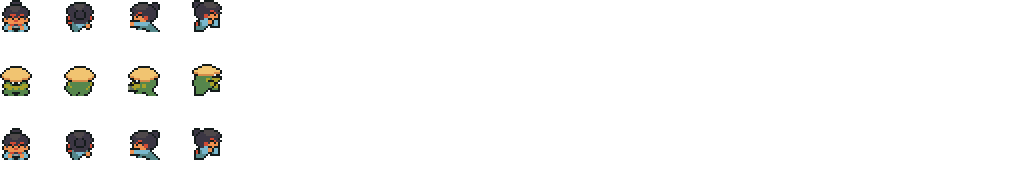
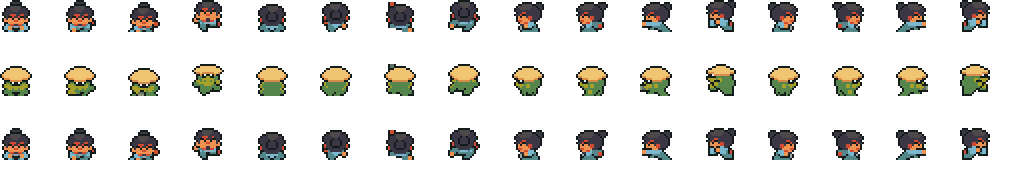
fix(mvp2): character frames - directions are columns, walk cycles are rows
User reported characters spinning while walking. Root cause: Ninja
Adventure source sheets lay out COLUMNS = directions and ROWS = animation
frames, but the extractor walked a diagonal (row += frame), so each
'direction's 4 frames were actually 4 different directions' standing
frames - playing them made the character rotate in place.

- buildCharacterSheetNormalized: sx = direction column, sy = frame row;
  regenerate characters.png (16 valid frames per character: 4 dir blocks
  x 4 walk frames)
- MapScene picks the direction block from server-facing (down 0-3 / left
  4-7 / right 8-11 / up 12-15) and loops the 4 walk frames while moving
- Verified: sampled texture columns 0,1,2,3,0... (single direction block,
  no cross-direction rotation); e2e passes

diff --git a/src/components/pixi/map/MapScene.tsx b/src/components/pixi/map/MapScene.tsx
@@ -17,6 +17,7 @@ export type MapSceneHandle = {
 export type MapAgentView = {
   x: number;
   y: number;
+  facing?: { x: number; y: number };
   isAlive: boolean;
   name: string;
   action: { type: string; phase: string; progress: number } | null;
@@ -43,14 +44,23 @@ type MapSceneProps = {
 const TILE = 32;
 
 // characters.png is the 2x-scaled 16-col atlas with 64px cells: each
-// character occupies one 64px row (linche 0, shilei 1, suhe 2); the 4 walk
-// frames of the down direction live in columns 0-3, each 32x32 in the
-// top-left corner of the 64px cell. (Columns 4-15 are empty placeholders.)
+// character occupies one 64px row (linche 0, shilei 1, suhe 2). Every
+// character has 16 frames laid out as 4 direction blocks x 4 walk frames:
+// cols 0-3 down, 4-7 left, 8-11 right, 12-15 up (dirOrder in meta).
 const AGENT_ROW: Record<string, number> = { agent_a: 0, agent_b: 1, agent_c: 2 };
 const CELL = 64;
 const FRAME_SIZE = 32;
 const WALK_FRAMES = 4;
+const DIR_BLOCK: Record<string, number> = { down: 0, left: 1, right: 2, up: 3 };
 const AGENT_COLOR: Record<string, number> = { agent_a: 0x4aa3ff, agent_b: 0x46d96a, agent_c: 0xff9a4a };
+
+function dirIndexOf(facing?: { x: number; y: number }): number {
+  if (!facing) return 0;
+  if (facing.y > 0) return DIR_BLOCK.down;
+  if (facing.x < 0) return DIR_BLOCK.left;
+  if (facing.x > 0) return DIR_BLOCK.right;
+  return DIR_BLOCK.up;
+}
 
 // Props atlas layout: cellSize x cellSize cells (props.png). Index from meta.
 function propTexture(assets: MapAssets, tileIndex: number, w: number, h: number, sub?: { x: number; y: number; w: number; h: number }): PIXI.Texture {
@@ -75,6 +85,7 @@ export const MapScene = PixiComponent<MapSceneProps, PIXI.Container & { __handle
       walkFrame: Map<string, number>;
       walkTextures: Map<string, Array<PIXI.Texture>>;
       idleTextures: Map<string, PIXI.Texture>;
+      frameTextures: Map<string, Array<PIXI.Texture>>;
       frameAcc: number;
       targetPos: Map<string, { x: number; y: number }>;
       ticker: PIXI.Ticker | null;
@@ -82,7 +93,7 @@ export const MapScene = PixiComponent<MapSceneProps, PIXI.Container & { __handle
       itemMarks: Map<string, PIXI.Graphics>;
       fireMarks: Map<string, PIXI.Graphics>;
       charTex: PIXI.Texture | null;
-    } = { agentSprites: new Map(), resourceLabels: new Map(), itemMarks: new Map(), fireMarks: new Map(), charTex: null, moving: new Set(), walkFrame: new Map(), walkTextures: new Map(), idleTextures: new Map(), frameAcc: 0, targetPos: new Map(), ticker: null };
+    } = { agentSprites: new Map(), resourceLabels: new Map(), itemMarks: new Map(), fireMarks: new Map(), charTex: null, moving: new Set(), walkFrame: new Map(), walkTextures: new Map(), idleTextures: new Map(), frameTextures: new Map(), frameAcc: 0, targetPos: new Map(), ticker: null };
     (container as PIXI.Container & { __mvp2State?: typeof state }).__mvp2State = state;
     container.__handle = {
       update: () => undefined,
@@ -194,23 +205,16 @@ export const MapScene = PixiComponent<MapSceneProps, PIXI.Container & { __handle
             ring.position.set(0, 0);
           }
           if (charTex) {
-          const row = AGENT_ROW[id] ?? 0;
-            // Time-driven walk cycle: the ticker advances moving agents'
-            // frames; idle agents stay on frame 0.
-            let frames = state.walkTextures.get(id);
+            const row = AGENT_ROW[id] ?? 0;
+            // 16 frames per character: 4 direction blocks x 4 walk frames.
+            let frames = state.frameTextures.get(id);
             if (!frames) {
-              frames = Array.from({ length: WALK_FRAMES }, (_, c) => new PIXI.Texture(charTex.baseTexture, new PIXI.Rectangle(c * CELL, row * CELL, FRAME_SIZE, FRAME_SIZE)));
-              state.walkTextures.set(id, frames);
+              frames = Array.from({ length: 16 }, (_, i) => new PIXI.Texture(charTex.baseTexture, new PIXI.Rectangle(i * CELL, row * CELL, FRAME_SIZE, FRAME_SIZE)));
+              state.frameTextures.set(id, frames);
             }
-            const idleTex = state.idleTextures.get(id);
-            if (!state.idleTextures.has(id)) {
-              const tex = new PIXI.Texture(charTex.baseTexture, new PIXI.Rectangle(0, row * CELL, FRAME_SIZE, FRAME_SIZE));
-              state.idleTextures.set(id, tex);
-              spr.texture = tex;
-            } else {
-              const moving = state.moving.has(id) && state.ticker;
-              spr.texture = moving ? frames[(state.walkFrame.get(id) ?? 0)] : idleTex!;
-            }
+            const dir = dirIndexOf(a.facing);
+            const moving = state.moving.has(id) && state.ticker;
+            spr.texture = moving ? frames[dir * WALK_FRAMES + (state.walkFrame.get(id) ?? 0)] : frames[dir * WALK_FRAMES];
           }
         }
       };
@@ -250,13 +254,10 @@ export const MapScene = PixiComponent<MapSceneProps, PIXI.Container & { __handle
             if (!entry || entry.spr.destroyed) continue;
             const next = ((state.walkFrame.get(id) ?? 0) + 1) % WALK_FRAMES;
             state.walkFrame.set(id, next);
-            let frames = state.walkTextures.get(id);
-            if (!frames) {
-              const row = AGENT_ROW[id] ?? 0;
-              frames = Array.from({ length: WALK_FRAMES }, (_, c) => new PIXI.Texture(charTex.baseTexture, new PIXI.Rectangle(c * CELL, row * CELL, FRAME_SIZE, FRAME_SIZE)));
-              state.walkTextures.set(id, frames);
-            }
-            entry.spr.texture = frames[next];
+            const agent = liveProps.agents?.[id];
+            const dir = dirIndexOf(agent?.facing);
+            const frames = state.frameTextures.get(id);
+            if (frames) entry.spr.texture = frames[dir * WALK_FRAMES + next];
           }
         } catch {
           // Stage may be tearing down; stop the cycle.

diff --git a/scripts/map/generate-map.ts b/scripts/map/generate-map.ts
@@ -1198,8 +1198,12 @@ export function buildCharacterSheetNormalized(): { png: Buffer; meta: unknown } 
     const framesOfChar: number[] = [];
     for (let d = 0; d < ROWS; d++) {
       for (let f = 0; f < FRAMES; f++) {
-        const sx = f * PNG16;
-        const sy = (d * 7 + frameStart + f) * PNG16;
+        // Source layout (ninja_blue.png etc): columns = directions
+        // (down/left/right/up), rows = animation frames. Extracting a
+        // diagonal (old code) mixed directions -> characters spun while
+        // "walking". Correct: direction indexes the COLUMN, frame the ROW.
+        const sx = d * PNG16;
+        const sy = (frameStart + f) * PNG16;
         const frameBuf = { w: PNG16, h: PNG16, data: new Uint8ClampedArray(PNG16 * PNG16 * 4) };
         for (let y = 0; y < PNG16; y++) {
           for (let x = 0; x < PNG16; x++) {

diff --git a/src/components/GameView.tsx b/src/components/GameView.tsx
@@ -180,6 +180,7 @@ export default function GameView({
                   {
                     x: a.x,
                     y: a.y,
+                    facing: a.facing,
                     isAlive: a.isAlive,
                     name: a.name,
                     action: a.currentAction ? { type: a.currentAction.type, phase: a.currentAction.phase, progress: a.currentAction.progress } : null,

diff --git a/AGENT_PROGRESS.md b/AGENT_PROGRESS.md
@@ -64,6 +64,20 @@
 - 验证：纹理帧采样 2,3,0,0,1,2,3... 四帧循环无空帧；5 现实秒推进
   45 游戏分钟；位置采样连续（每帧 3px 匀速）；e2e 通过。
 
+### 角色帧方向布局修正（2026-08-07，用户反馈"走路时自转"）
+
+- 源素材（Ninja Adventure）真实布局：**列 = 方向（down/left/right/up），
+  行 = 动画帧**。此前提取用对角线（行号混入帧号），导致每方向的
+  "4 帧"实际是 4 个方向的站立帧 → 动画播放时角色原地转方向。
+- 修复 buildCharacterSheetNormalized：方向取列、帧取行（sx = d*16,
+  sy = (2+f)*16）；characters.png 重新生成为每角色 16 帧
+  （4 方向块 × 4 走路帧，16 列全部有效）。
+- 前端：帧选择按服务端 facing 决定方向块（down 0-3 / left 4-7 /
+  right 8-11 / up 12-15），移动中播放该方向的 4 帧走路循环，
+  静止显示该方向第 0 帧。
+- 验证：模拟移动采样帧列 0,1,2,3,0...（同一方向块内循环，不再跨方向）；
+  同方向帧差异 11.5/39.8/57.0（迈步幅度递进）；e2e 通过。
+
 ### 本轮进展（2026-08-07 生存闭环修复，真实 API 验证）
 
 ### P6/P7/P8 完成（2026-08-07）
